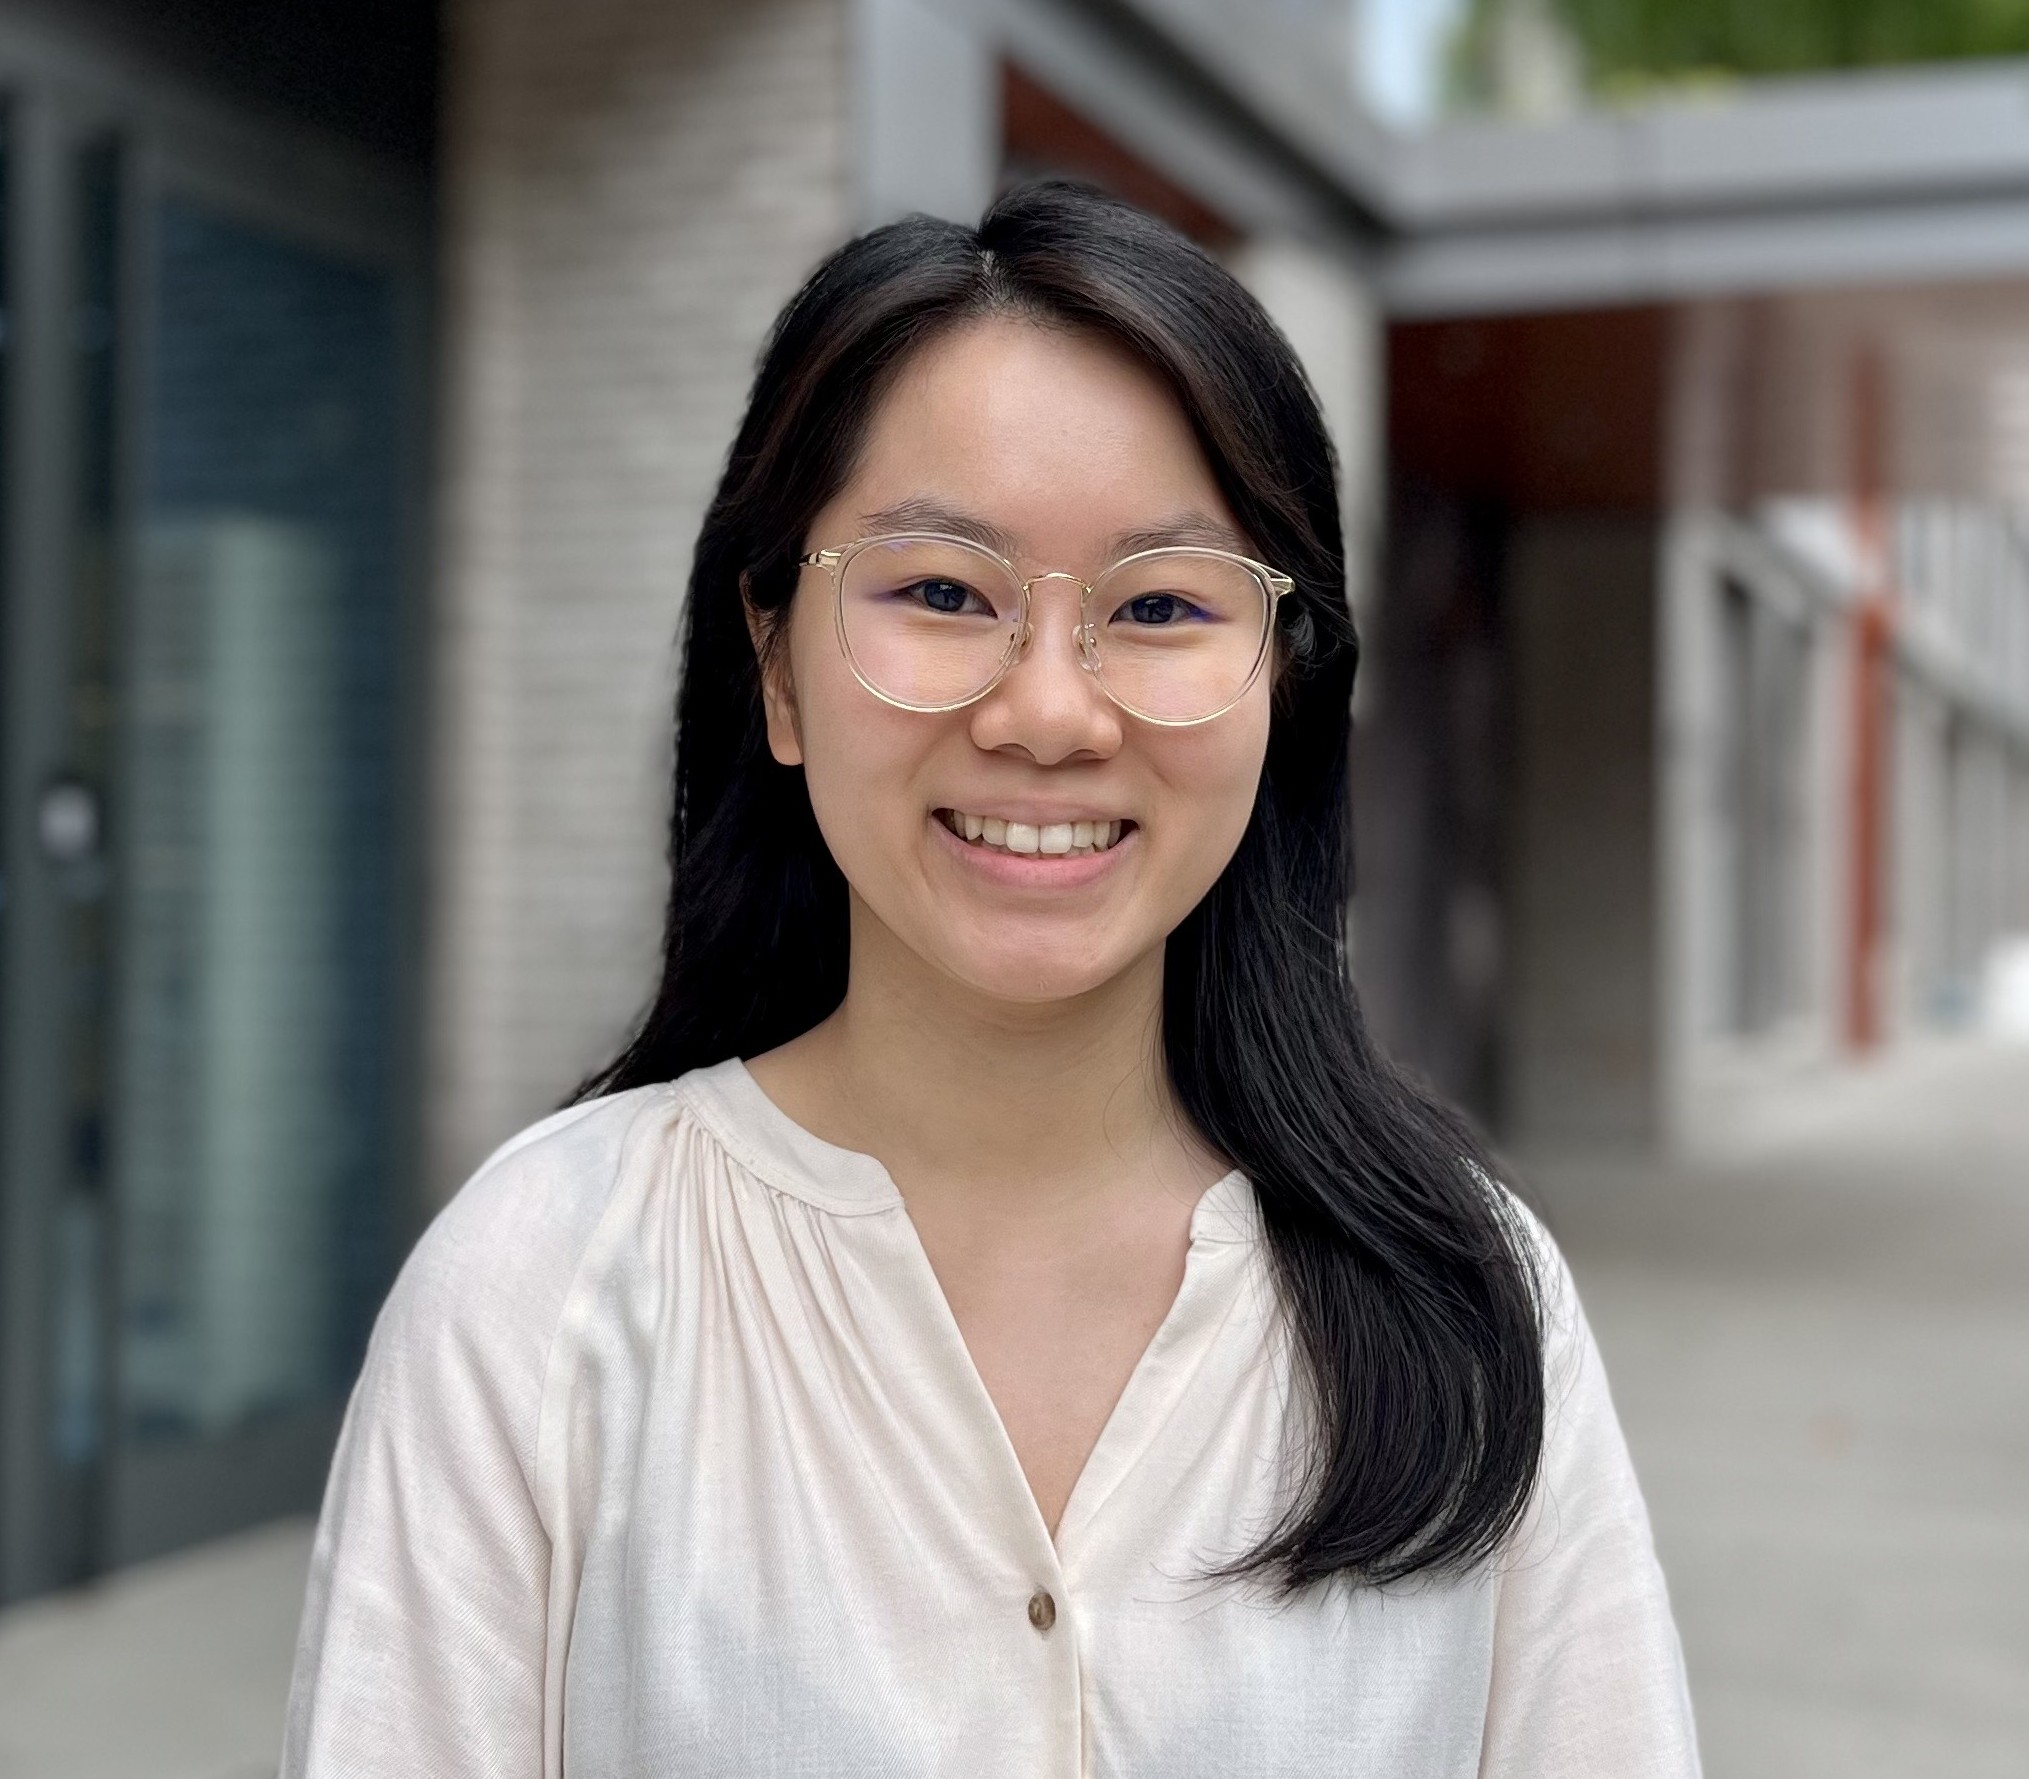
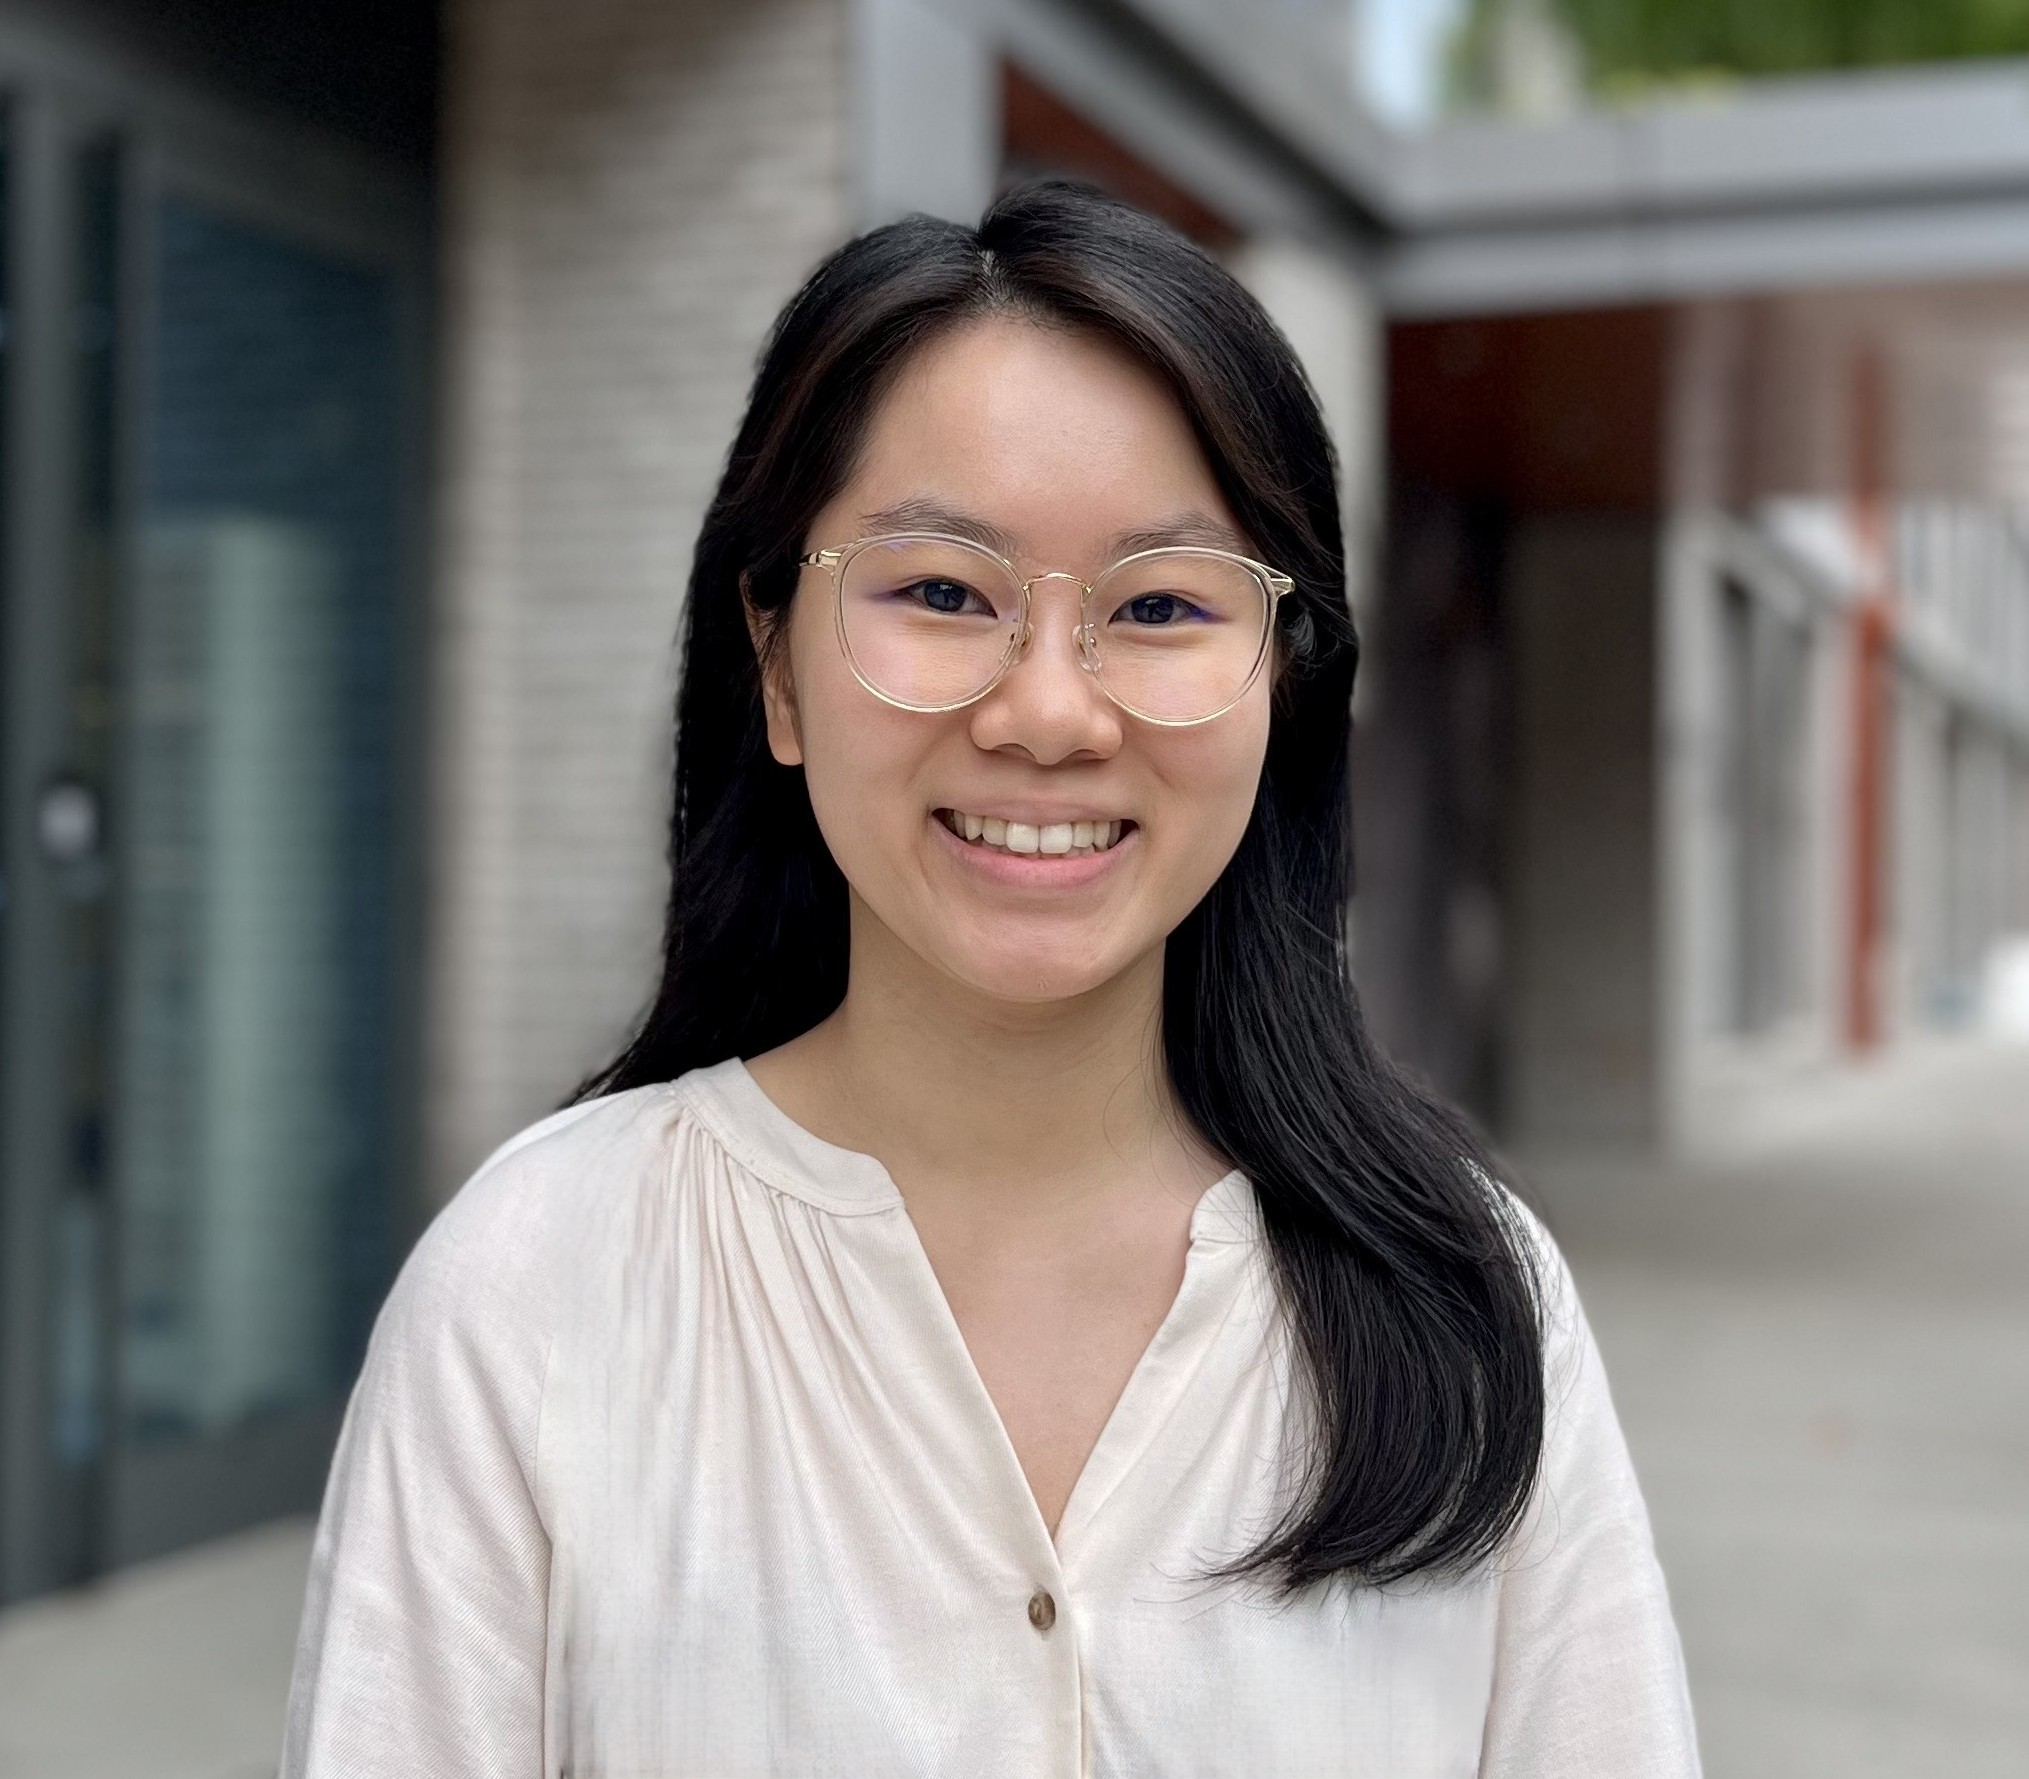
updated about me and resume

diff --git a/src/components/About.tsx b/src/components/About.tsx
@@ -4,9 +4,23 @@ const About = () => {
       <div className="section-container">
         <div className="flex flex-col justify-center items-center">
           <h2 className="section-title">About Me</h2>
-          <div className="flex flex-col justify-center items-center gap-2 text-center w-[300px] xs:w-[450px] md:w-[700px]">
+          <div className="flex flex-col justify-center items-center gap-6 text-center w-[300px] xs:w-[450px] md:w-[700px]">
             <p className="text-lg sm:text-xl font-semibold">
-              Hi! I'm Kelly — a recent Computer Science graduate from{" "}
+              Hi! I'm Kelly — a Master's student in Software Engineering Systems
+              at{" "}
+              <a
+                href="https://coe.northeastern.edu/"
+                target="_blank"
+                rel="noopener noreferrer"
+                className="hover:text-orange-500 cursor-pointer"
+              >
+                Northeastern
+              </a>{" "}
+              who loves building full-stack web applications with clean code and
+              thoughtful user experience..
+            </p>
+            <p className="text-base sm:text-lg font-light">
+              I graduated from{" "}
               <a
                 href="https://engineering.nyu.edu/"
                 target="_blank"
@@ -14,19 +28,23 @@ const About = () => {
                 className="hover:text-orange-500 cursor-pointer"
               >
                 NYU
-              </a>
-              .
+              </a>{" "}
+              with a degree in Computer Science and a minor in Integrated Design
+              & Media, which shaped how I approach interfaces: I care as much
+              about how something feels to use as how it works under the hood.
+              I've applied what I learned through team projects and a software
+              developer internship at CherryOnTech, building responsive front
+              ends and back-end APIs.
             </p>
             <p className="text-base sm:text-lg font-light">
-              Over the past four years, I've built a strong foundation in both
-              front-end and back-end development. I enjoy working across the
-              full stack, where I get to craft intuitive user interfaces while
-              also building reliable, well-structured server-side logic.
+              Right now, I'm focused on system design, cloud computing, and
+              AI/ML, digging into how software scales and stays reliable in
+              production.
             </p>
             <p className="text-base sm:text-lg font-light">
-              I'm driven by curiosity and a genuine love for learning, and I'm
-              always excited to experiment with new tools, improve my skills,
-              and grow as an engineer.
+              When I'm not coding, you'll probably find me watching soccer,
+              playing video games, or contemplating what to cook for dinner.
+              Take a look at my projects below, and feel free to reach out!
             </p>
           </div>
         </div>

diff --git a/src/constants/index.ts b/src/constants/index.ts
@@ -1,8 +1,8 @@
 export const NAV_LINKS = ["About", "Skills", "Projects", "Contact"];
 
 export const SKILLS = [
-  "HTML5",
-  "CSS3",
+  "HTML",
+  "CSS",
   "JavaScript",
   "TypeScript",
   "React",
@@ -10,19 +10,19 @@ export const SKILLS = [
   "Bootstrap",
   "Node.js",
   "Express.js",
-  "Next.js",
   "Flask",
   "Python",
   "Java",
   "C/C++",
   "MySQL",
   "MongoDB",
+  "NumPy",
+  "Pandas",
   "Git",
   "GitHub",
   "GitHub Actions",
   "RESTful APIs",
   "Figma",
-  "Tableau",
 ];
 
 import MotiflyImg from "../assets/motifly.png";
@@ -65,8 +65,7 @@ export const PROJECTS = [
     description:
       "A full-stack web application for viewing Spotify track audio features. Integrates the Spotify Web API to let users search for songs, explore detailed audio statistics, and save tracks to a personalized bookmark library.",
     imageSrc: StatifyImg,
-    githubLink:
-      "https://github.com/nyu-csci-ua-0467-001-002-fall-2024/final-project-wukellyy",
+    githubLink: "https://github.com/wukellyy/Statify",
     tags: [
       "Express.js",
       "Node.js",

diff --git a/index.html b/index.html
@@ -5,10 +5,9 @@
     <link rel="icon" type="image/svg+xml" href="/icon.svg" />
     <meta name="viewport" content="width=device-width, initial-scale=1.0" />
     <title>Kelly Wu</title>
-    <script type="module" crossorigin src="/assets/index-BolJuyWs.js"></script>
-    <link rel="stylesheet" crossorigin href="/assets/index-CW1-O97L.css">
   </head>
   <body>
     <div id="root"></div>
+    <script type="module" src="/src/main.tsx"></script>
   </body>
 </html>

diff --git a/src/components/Hero.tsx b/src/components/Hero.tsx
@@ -4,9 +4,9 @@ import ProfileImage from "../assets/profile.jpeg";
 const Hero = () => {
   const handleResumeClick = () => {
     window.open(
-      "https://drive.google.com/file/d/1kBMuBXS_zk581bolu7TZ1E9wKheSNxJw/preview",
+      "https://drive.google.com/file/d/1mSZQ0nxqO4JgO-gEyWixTfMQiPgegQ6y/preview",
       "_blank",
-      "noopener,noreferrer"
+      "noopener,noreferrer",
     );
   };
 
